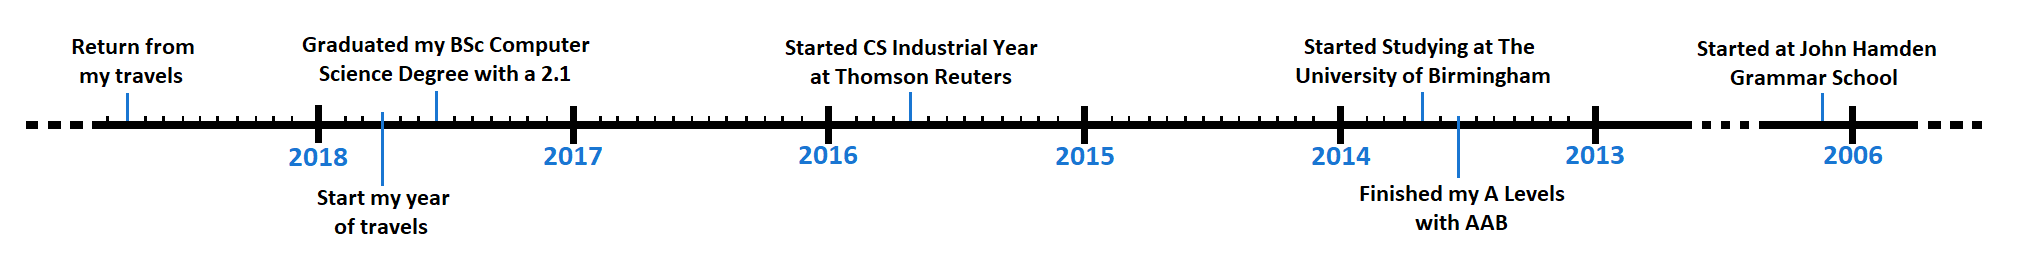
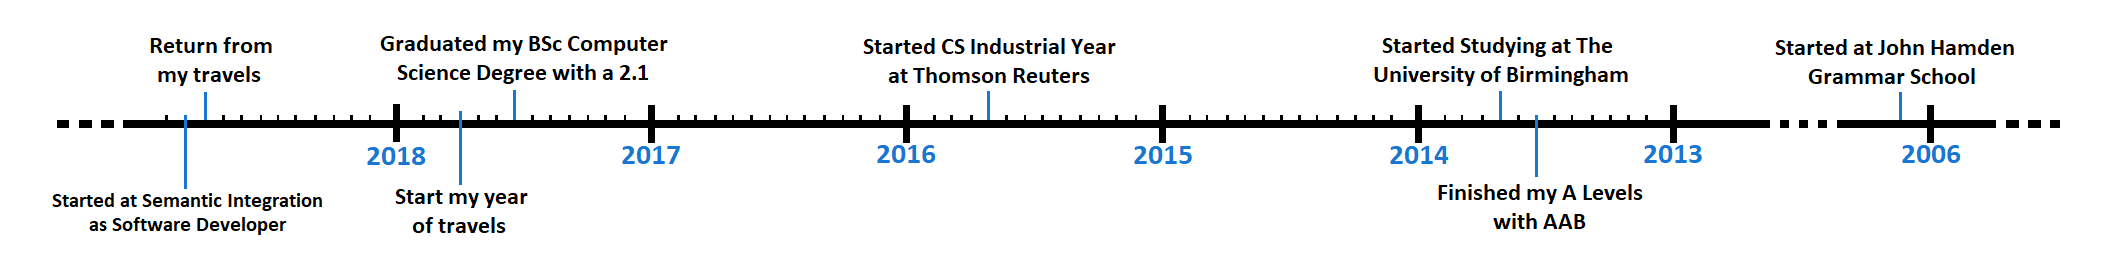
Updated work reflecting new job at Semantic Integration

diff --git a/work.html b/work.html
@@ -49,6 +49,12 @@
                 <div class="row">
                     
                     <div class="card">
+                        <h3>SEMANTIC INTEGRATION — Software Developer</h3>
+                        <h5>November 2018 - Current</h5>
+                        <p>Data driven software solutions helping realise the power of data. Expertise in: Open Linked Data Integration, Semantic Web, Data Driven Solutions, Graph Databases, Natural Language Processing, Big Data, Enterprise Architecture, Enterprise Solutions</p>
+                    </div>
+                    
+                    <div class="card">
                         <h3>THOMSON REUTERS — Junior Software Engineer</h3>
                         <h5>August 2015 - August 2016</h5>
                         <p>Undertook a wide variety of tasks within my team, including the creation of functional tests (using Robot Framework), 
